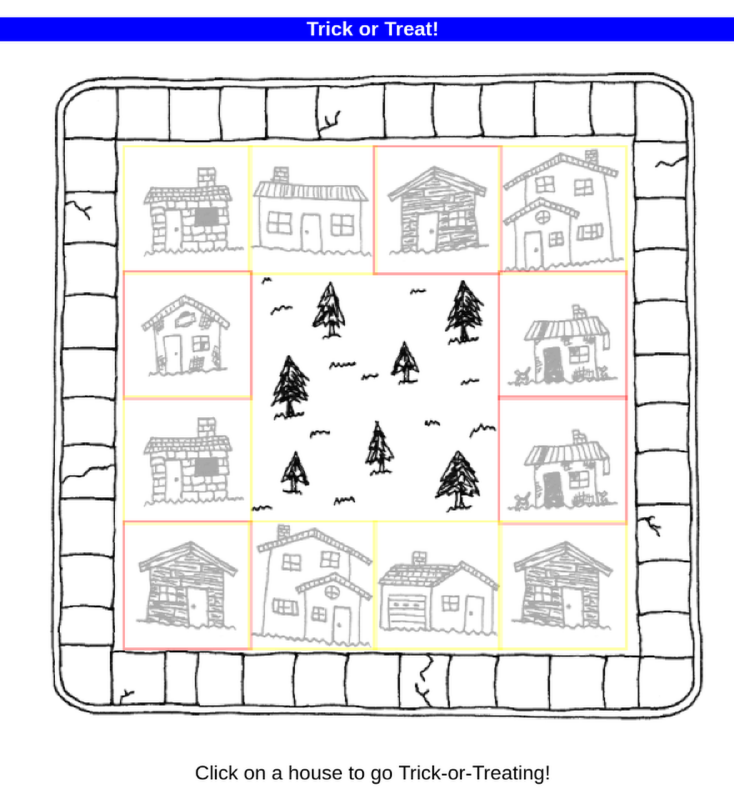
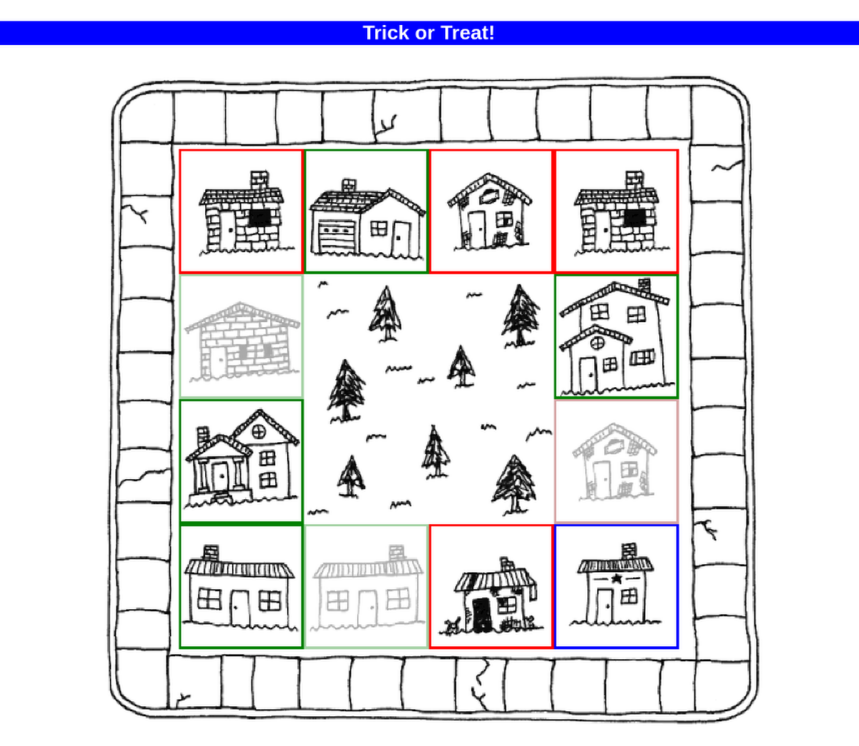
add unvisited houses, output on choiceadv.
Broken: gives "you have already trick or treated that house" on lit
houses

diff --git a/relay/place.town.js b/relay/place.town.js
@@ -1,8 +1,8 @@
 Object.assign(globalThis, require("kolmafia"));
 
-// Trick or treat highlighting of housed. Based on 8bit-relay script.
+// Trick or treat highlighting of houses. Based on 8bit-relay script.
 
-module.exports.main = () => {
+module.exports.town_decorator = () => {
     // This will give us the current page's HTML as a big string
     // Since the relay script loads when the town does, it'll be town's HTML
     var pageText = visitUrl();
@@ -11,10 +11,10 @@ module.exports.main = () => {
     if (!pageText.includes(`<b style="color: white">Trick or Treat!</b>`)) return;
 
     // This is our CSS stuff
-    // F versions are the faded versions, with the opacity copied from the source
+    // F versions are the faded (visited) versions, with the opacity copied from the source
     const css = `<style type='text/css'>
 .litHouse {
-	border: 2px solid greenIf I;
+	border: 2px solid green;
 }
 .litHouseF {
 	border: 2px solid green;
@@ -28,7 +28,7 @@ module.exports.main = () => {
 	border: 2px solid red;
 }
 .darkHouseF {
-	border: 2px solid red;
+	border: 2px solid darkred;
 	zoom: 1;
 	filter: alpha(opacity=35);
 	opacity: 0.35;
@@ -57,18 +57,32 @@ module.exports.main = () => {
     let houseTypes = [litHouses,darkHouses,starHouse];
     
     // No lookbehinds in Rhino :(
-    //~ let lookbehind = "(?<=img class=)";
-    let start = "<img class=";
+    //~ let lookbehind = "(?<=img )";
+    let start = "<img ";
     let lookahead = "(?= src='https:\/\/[A-Za-z0-9-]{1,63}\.[A-Za-z0-9-]{1,63}\.[A-Za-z]{2,6}\/otherimages\/trickortreat\/\[IMG\])";
     
     for (let iht = 0; iht < houseTypes.length; iht++) {
         ht = houseTypes[iht];
         this_la = lookahead.replace("[IMG]",ht.imgName);
-        fullPattern = new RegExp(start+"'faded'"+this_la,"g");
-        newText = start+`'`+ht.style+"F"+`'`;
-        pageText = pageText.replaceAll(fullPattern,newText);
-    }
 
-    // Take the massive string of HTML that we've altered and use it in place of the native 8bit page
+        // Fresh are houses that haven't been opened yet.
+        freshPattern = new RegExp(start+this_la,"g");
+        newFreshText = start+`class='`+ht.style+`'`;
+        pageText = pageText.replaceAll(freshPattern,newFreshText);
+
+        // Faded are houses that have been visited.
+        fadedPattern = new RegExp(start+`class='faded'`+this_la,"g");
+        newFadedText = start+`class='`+ht.style+"F"+`'`;
+        pageText = pageText.replaceAll(fadedPattern,newFadedText);
+    }
+    
+    // Make the images a little smaller to fit the border
+    pageText = pageText.replaceAll(`width=100 height=100 alt="A House`,`width=96 height=96 alt="A House`);
+
+    // Take the massive string of HTML that we've altered and use it in place of the native town page
     write(pageText);
 };
+
+module.exports.main = () => {
+    module.exports.town_decorator();
+}

diff --git a/relay/choice.804.js b/relay/choice.804.js
@@ -1,0 +1,9 @@
+const kol = require('kolmafia')
+// Trick or treating
+
+// Actually defined in place.town.js
+const {town_decorator} = require('./place.town.js');
+
+module.exports.main = () => {
+    town_decorator();
+}
